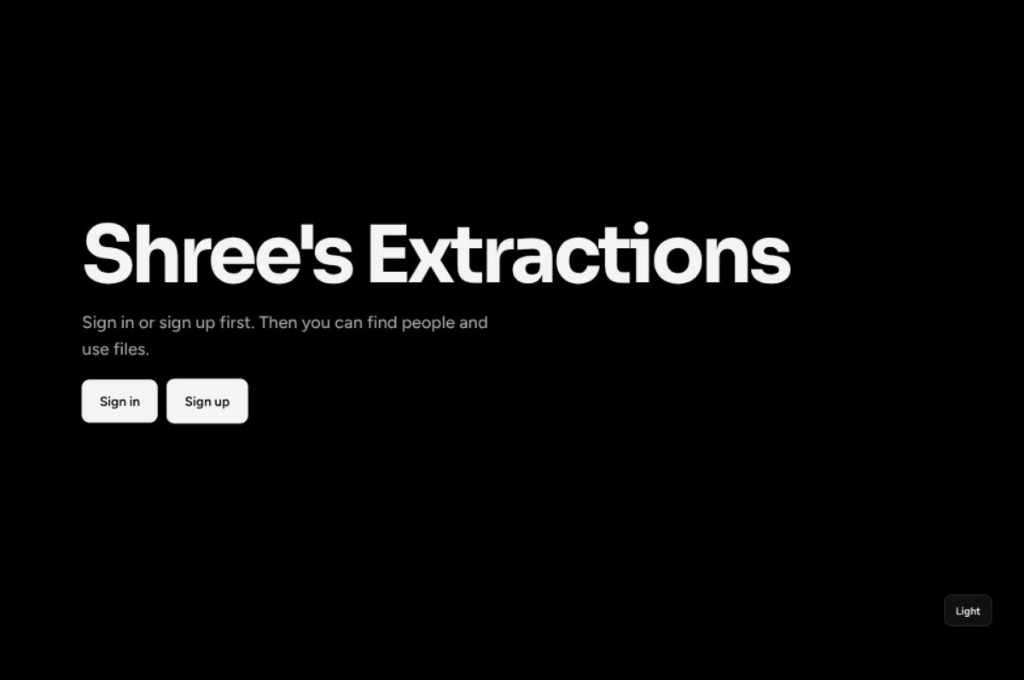
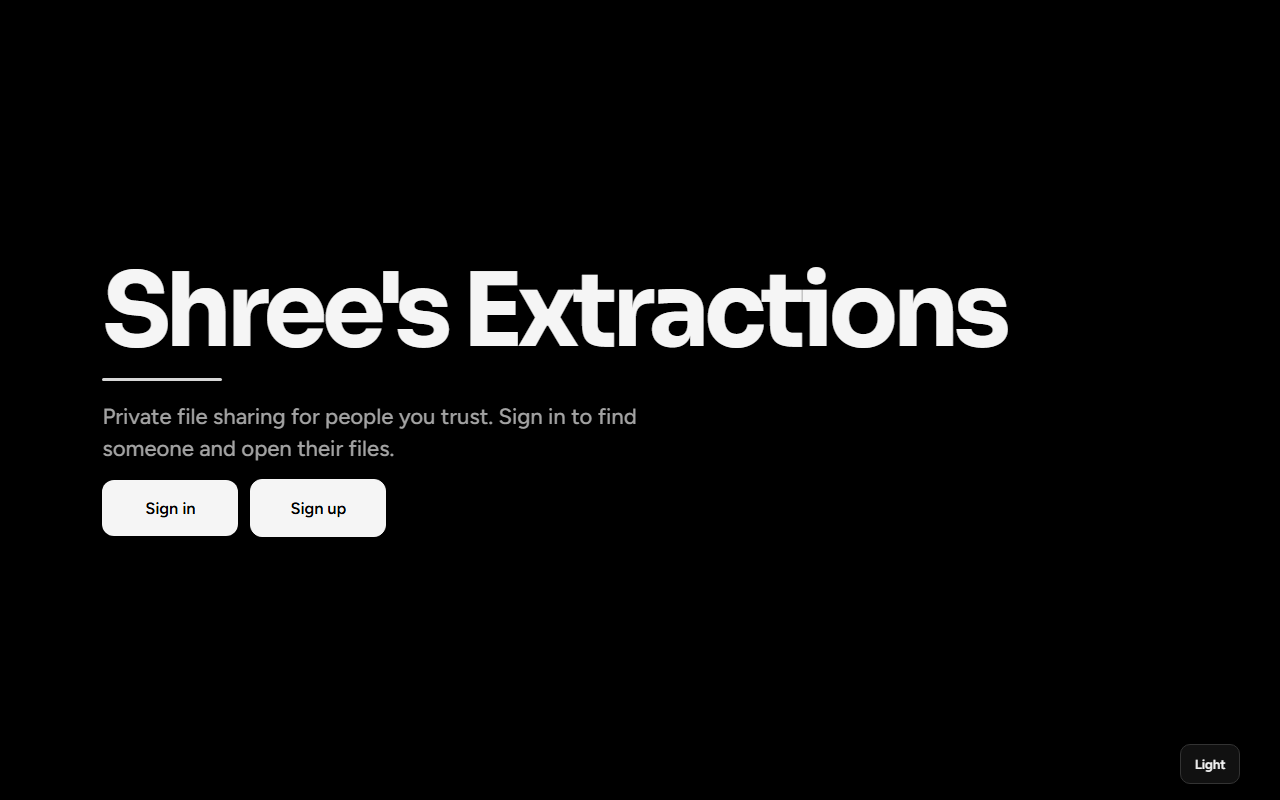
Sync work links and screenshots with live GitHub projects.

Changed region(s): [[0.0625, 0.3088, 0.8125, 0.4324], [0.0625, 0.4632, 0.5, 0.6794], [0.9375, 0.8956, 0.9688, 0.9882]]

diff --git a/index.html b/index.html
@@ -103,7 +103,7 @@
           <div class="work-index">01</div>
           <div class="work-body">
             <h3>Portfolio</h3>
-            <p>My personal site — animated ASCII UI and a clean showcase of what I build.</p>
+            <p>My personal site — dark, ice-blue, and sharp on first load. HTML, CSS, and JS with real motion.</p>
             <ul>
               <li>HTML</li>
               <li>CSS</li>
@@ -116,14 +116,14 @@
           <span class="work-arrow" aria-hidden="true">↗</span>
         </a>
 
-        <a href="https://shrees-extractions.vercel.app" class="work-item" data-work style="--tone: #1a2230" target="_blank" rel="noopener noreferrer">
+        <a href="https://shree-s-extractions.vercel.app" class="work-item" data-work style="--tone: #1a2230" target="_blank" rel="noopener noreferrer">
           <div class="work-index">02</div>
           <div class="work-body">
             <h3>Extract</h3>
-            <p>Private person-to-person file sharing with timed access and ephemeral chat.</p>
+            <p>Private file sharing for people you trust — timed access, one-time codes, and chat that disappears.</p>
             <ul>
-              <li>JavaScript</li>
-              <li>Live site</li>
+              <li>Node.js</li>
+              <li>Express</li>
               <li>Vercel</li>
             </ul>
           </div>
@@ -137,11 +137,11 @@
           <div class="work-index">03</div>
           <div class="work-body">
             <h3>Playlist</h3>
-            <p>My personal music room in the browser — YouTube tracks, playlists, and a customizable space.</p>
+            <p>A personal music room in the browser — sign in, set the mood, drop a YouTube link, and play.</p>
             <ul>
-              <li>JavaScript</li>
-              <li>Live site</li>
-              <li>Vercel</li>
+              <li>Next.js</li>
+              <li>React</li>
+              <li>TypeScript</li>
             </ul>
           </div>
           <div class="work-preview">
@@ -191,7 +191,7 @@
         </p>
         <div class="about-facts">
           <div>
-            <strong data-count="3" data-stat="repos">0</strong>
+            <strong data-count="4" data-stat="repos">0</strong>
             <span>Public repos</span>
           </div>
           <div>
@@ -319,9 +319,9 @@
           <span class="site-link-url">shreesoni.vercel.app</span>
           <span class="site-link-go">Open ↗</span>
         </a>
-        <a class="site-link" href="https://shrees-extractions.vercel.app" target="_blank" rel="noopener noreferrer">
+        <a class="site-link" href="https://shree-s-extractions.vercel.app" target="_blank" rel="noopener noreferrer">
           <span class="site-link-label">Extract</span>
-          <span class="site-link-url">shrees-extractions.vercel.app</span>
+          <span class="site-link-url">shree-s-extractions.vercel.app</span>
           <span class="site-link-go">Open ↗</span>
         </a>
         <a class="site-link" href="https://shree-s-my-playlist.vercel.app" target="_blank" rel="noopener noreferrer">

diff --git a/README.md b/README.md
@@ -111,7 +111,8 @@ Accent `#8ec5ff` on near-black `#070708`. Display type for the name. Mono for th
 | Project | What it is | Link |
 | --- | --- | --- |
 | **Portfolio** | This site — ASCII UI, selected work, contact | [shreesoni.vercel.app](https://shreesoni.vercel.app) |
-| **Extract** | Private person-to-person file sharing | [shrees-extractions.vercel.app](https://shrees-extractions.vercel.app) |
+| **Extract** | Private file sharing with timed access | [shree-s-extractions.vercel.app](https://shree-s-extractions.vercel.app) |
+| **Playlist** | Personal music room — YouTube tracks & playlists | [shree-s-my-playlist.vercel.app](https://shree-s-my-playlist.vercel.app) |
 | **More** | Code, experiments, whatever is next | [github.com/Shreesoni520](https://github.com/Shreesoni520) |
 
 ---
@@ -124,7 +125,7 @@ Open to freelance, collabs, and roles where craft actually matters.
 - **GitHub:** [Shreesoni520](https://github.com/Shreesoni520)
 - **X:** [@Shreessoni520](https://x.com/Shreessoni520)
 - **Instagram:** [krishna_soni.52](https://www.instagram.com/krishna_soni.52/)
-- **Discord:** `shree_soni520`
+- **Discord / links:** [guns.lol/callmeshree./](https://guns.lol/callmeshree./)
 
 ---
 
